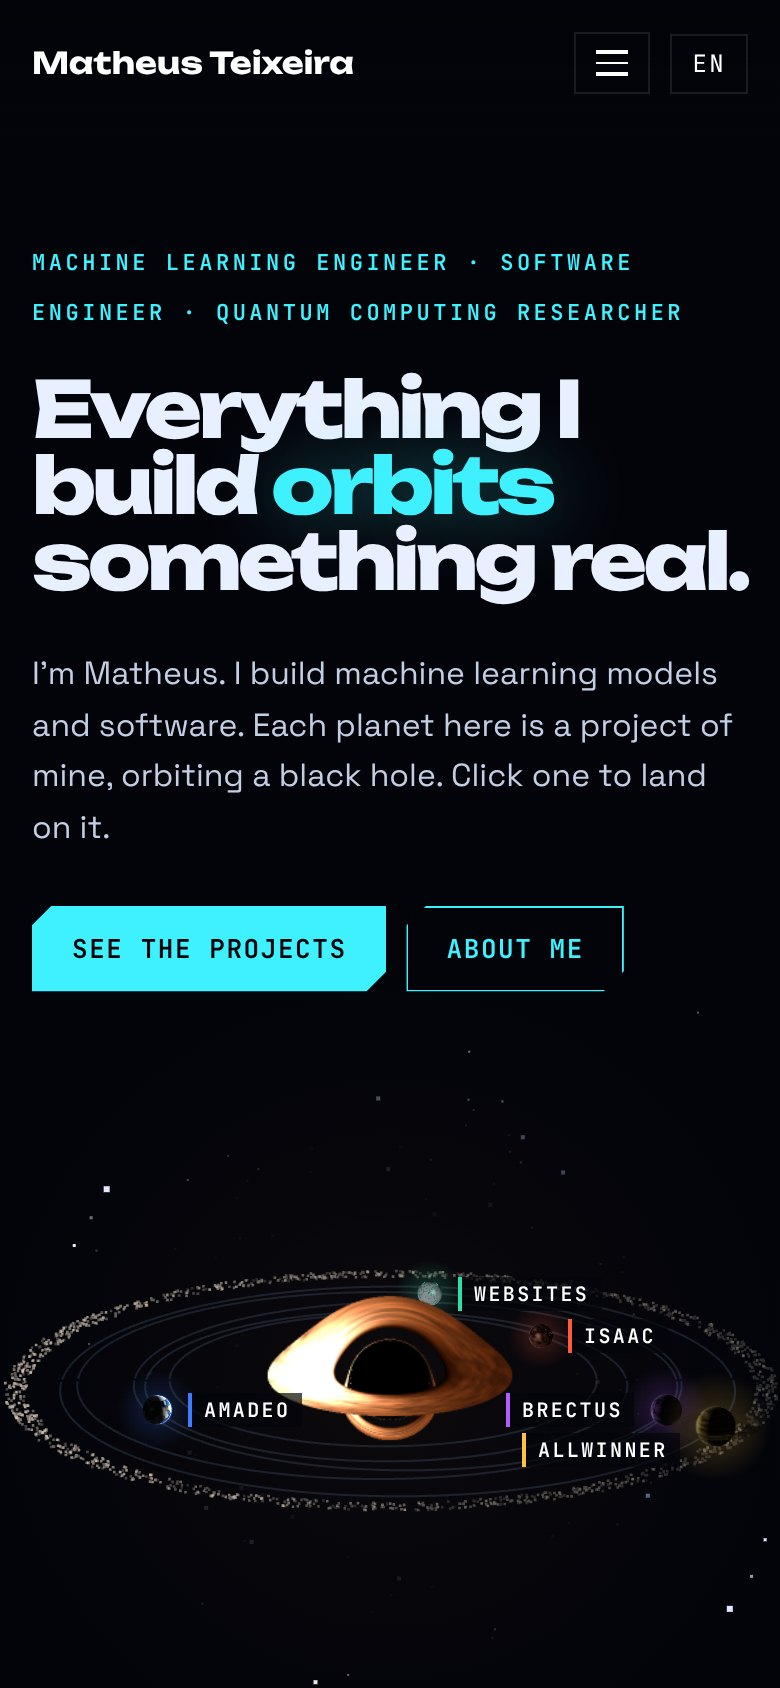
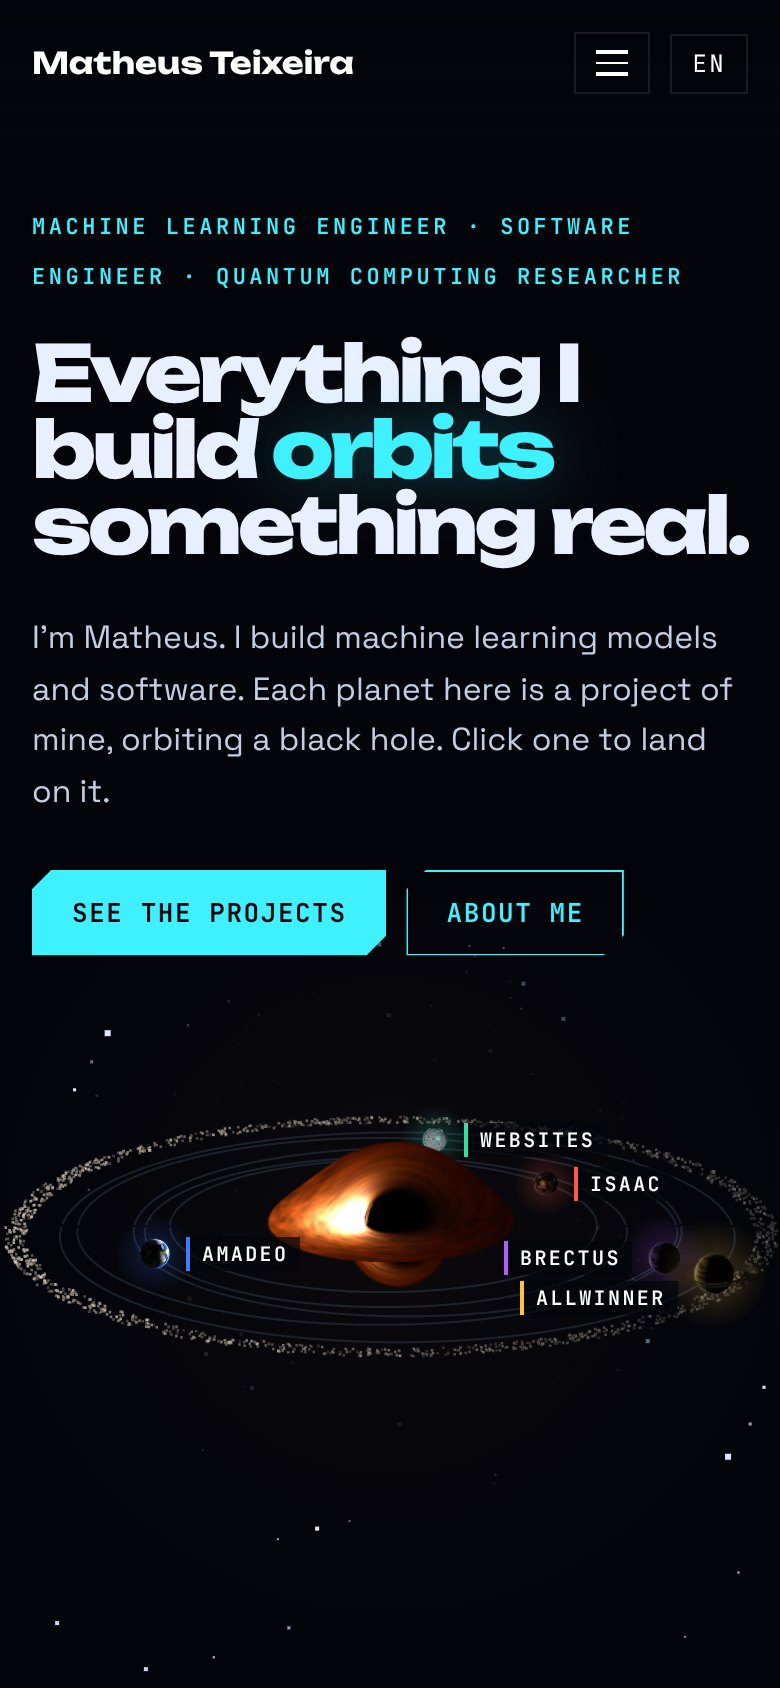
Raise the hole on phones and show a still sky without JavaScript
On screens up to 820 px the hole sits at 42% of its pane and the pane
starts closer to the buttons, so the whole system shows on the first
screen. Without JavaScript the hero shows a still of the sky (desktop,
right-to-left and phone versions). The WebGL fallback still and the
README images now show the spinning hole.

diff --git a/src/assets/css/site.css b/src/assets/css/site.css
@@ -63,6 +63,8 @@ a{color:inherit}
 .sky{position:absolute;inset:0}
 .sky canvas,.sky img.still{position:absolute;inset:0;width:100%;height:100%}
 .sky #bh,.sky img.still{inset:auto;pointer-events:none}
+.nojs img{position:absolute;inset:0;width:100%;height:100%;object-fit:cover;object-position:100% 50%}[dir=rtl] .nojs img{object-position:0 50%}
+@media(min-width:821px) and (max-aspect-ratio:16/9){.nojs img{object-fit:contain}}  /* keep the planets clear of the text on narrower screens */
 #bh{opacity:0;transition:opacity .8s}#bh.on{opacity:1}
 img.still{opacity:0}img.still.on{opacity:1}
 .shade{position:absolute;inset:0;pointer-events:none;background:linear-gradient(90deg,#03040af2 0%,#03040ad0 25%,#03040a00 46%)}
@@ -294,10 +296,11 @@ footer .fl{display:flex;flex-wrap:wrap;gap:8px 16px}footer .fl a{text-decoration
 @media(max-width:820px){
  .top nav{display:none}.mnav{display:block;margin-inline-start:auto}.top{gap:10px}
  .hero{height:auto;min-height:0;display:flex;flex-direction:column}.intro{order:1}.sky{order:2}
- .intro{position:relative;inset:auto;top:auto;transform:none;max-width:none;padding:118px var(--gutr) 0 var(--gut)}
+ .intro{position:relative;inset:auto;top:auto;transform:none;max-width:none;padding:100px var(--gutr) 0 var(--gut)}
  .intro h1{font-size:clamp(34px,10vw,52px)}.intro p{font-size:16px}
- .sky{position:relative;height:46vh;height:46svh;min-height:290px;max-height:430px}
+ .sky{position:relative;height:46vh;height:46svh;min-height:290px;max-height:430px;margin-top:-28px}
  .shade{display:none}
+ .nojs img{object-position:50% 42%}
  .lab{font-size:10px;padding:2px 6px}
  .sec{padding:90px var(--gutr) 0 var(--gut)}
  .ab{grid-template-columns:minmax(0,1fr);gap:28px}.ab-l{position:static;grid-template-columns:150px minmax(0,1fr);align-items:center}.pf{max-width:150px}.ab-l .ln{grid-column:1/-1}.ab-r p{font-size:17px}

diff --git a/src/assets/js/sky.js b/src/assets/js/sky.js
@@ -80,7 +80,7 @@
     // so no planet ever passes under the headline. The belt may run behind the text.
     const APO = Math.max(...PL.map(p => p.a * (1 + p.e)));
     let cx = w * .5, cy = h * .5, K;
-    if (mob) K = Math.min((w - 16) / (2 * (APO + 3)), h / (2 * 17)); // every planet stays on a phone screen
+    if (mob) { K = Math.min((w - 16) / (2 * (APO + 3)), h / (2 * 17)); cy = h * .42; } // every planet stays on a phone screen; the hole sits high enough to show on the first screen
     else {
       const free = S.rtl ? IR.l - 16 : w - IR.r - 16;
       K = Math.max(5, Math.min(h * .86 / (2 * 19), free / (2 * APO + 4)));

diff --git a/tools/build.py b/tools/build.py
@@ -325,7 +325,7 @@ def render(lang, C, ver, all_c):
 <details class="lang"><summary aria-label="{e(nav["lang"])}">{lang.upper()}</summary><ul>{langmenu}</ul></details></header>
 <main id="main">
 <section class="hero" id="top">
-<div class="sky" id="sky"><canvas id="bg" aria-hidden="true"></canvas><img class="still" id="bhstill" src="{b}assets/bh/bh-still.webp" alt="" aria-hidden="true"><canvas id="bh" aria-hidden="true"></canvas><canvas id="fg" aria-hidden="true"></canvas><div class="shade"></div>
+<div class="sky" id="sky"><canvas id="bg" aria-hidden="true"></canvas><img class="still" id="bhstill" src="{b}assets/bh/bh-still.webp" alt="" aria-hidden="true"><canvas id="bh" aria-hidden="true"></canvas><canvas id="fg" aria-hidden="true"></canvas><noscript><picture class="nojs"><source media="(max-width:820px)" srcset="{b}assets/bh/sky-phone.webp" width="780" height="776"><img src="{b}assets/bh/sky-{"rtl" if rtl else "ltr"}.webp" alt="" width="1600" height="900"></picture></noscript><div class="shade"></div>
 <div id="labs" role="group" aria-label="{e(T["planets"])}"></div></div>
 <div class="intro"><span class="k">{e(C["role"])}</span>
 <h1{" class=\"long\"" if len(H["h"]) > 48 else ""}>{hero_title(H["h"])}</h1>

diff --git a/README.md b/README.md
@@ -42,7 +42,8 @@ reaching the disc draw the thin ring round it. The rays do not change with time,
 a band of rows per frame with four samples per pixel, into two textures: the light of the smooth disc and
 where each ray met it. Every frame a cheap second pass lays clumps of gas over the disc that orbit at
 Ω = 1/(r^1.5 + a), sheared by the differential rotation, so the inner edge laps in about 0.7 s and the
-outer edge in about 9 s. `src/assets/bh/bh-still.webp` is shown only where WebGL 2 is not available.
+outer edge in about 9 s. `src/assets/bh/bh-still.webp` is shown only where WebGL 2 is not available,
+and with JavaScript off the hero shows a still of the whole sky (`src/assets/bh/sky-*.webp`).
 
 The planets and the belt orbit in the plane of the disc on one clock (40 M of time per second) and one
 distance scale. Planet orbits precess at Ω − κ, with Ω = 1/(r^1.5 + a) and κ = Ω √(1 − 6/r + 8a/r^1.5 − 3a²/r²) the
